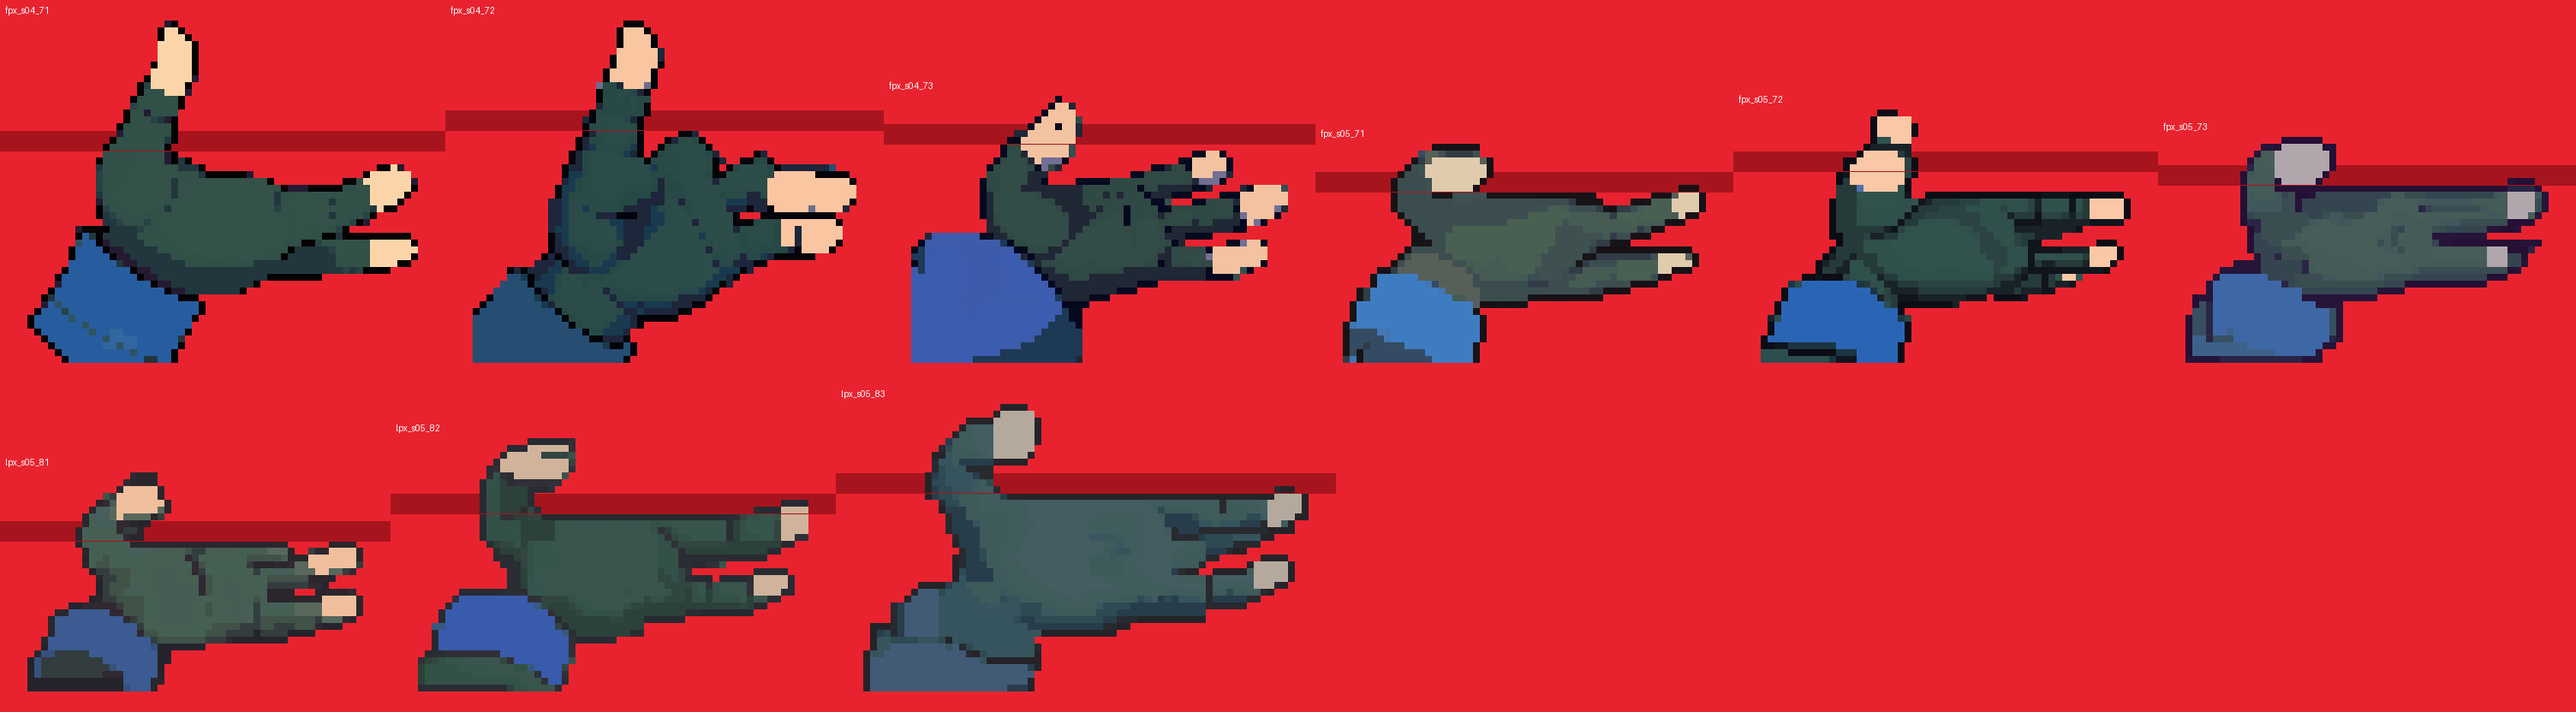
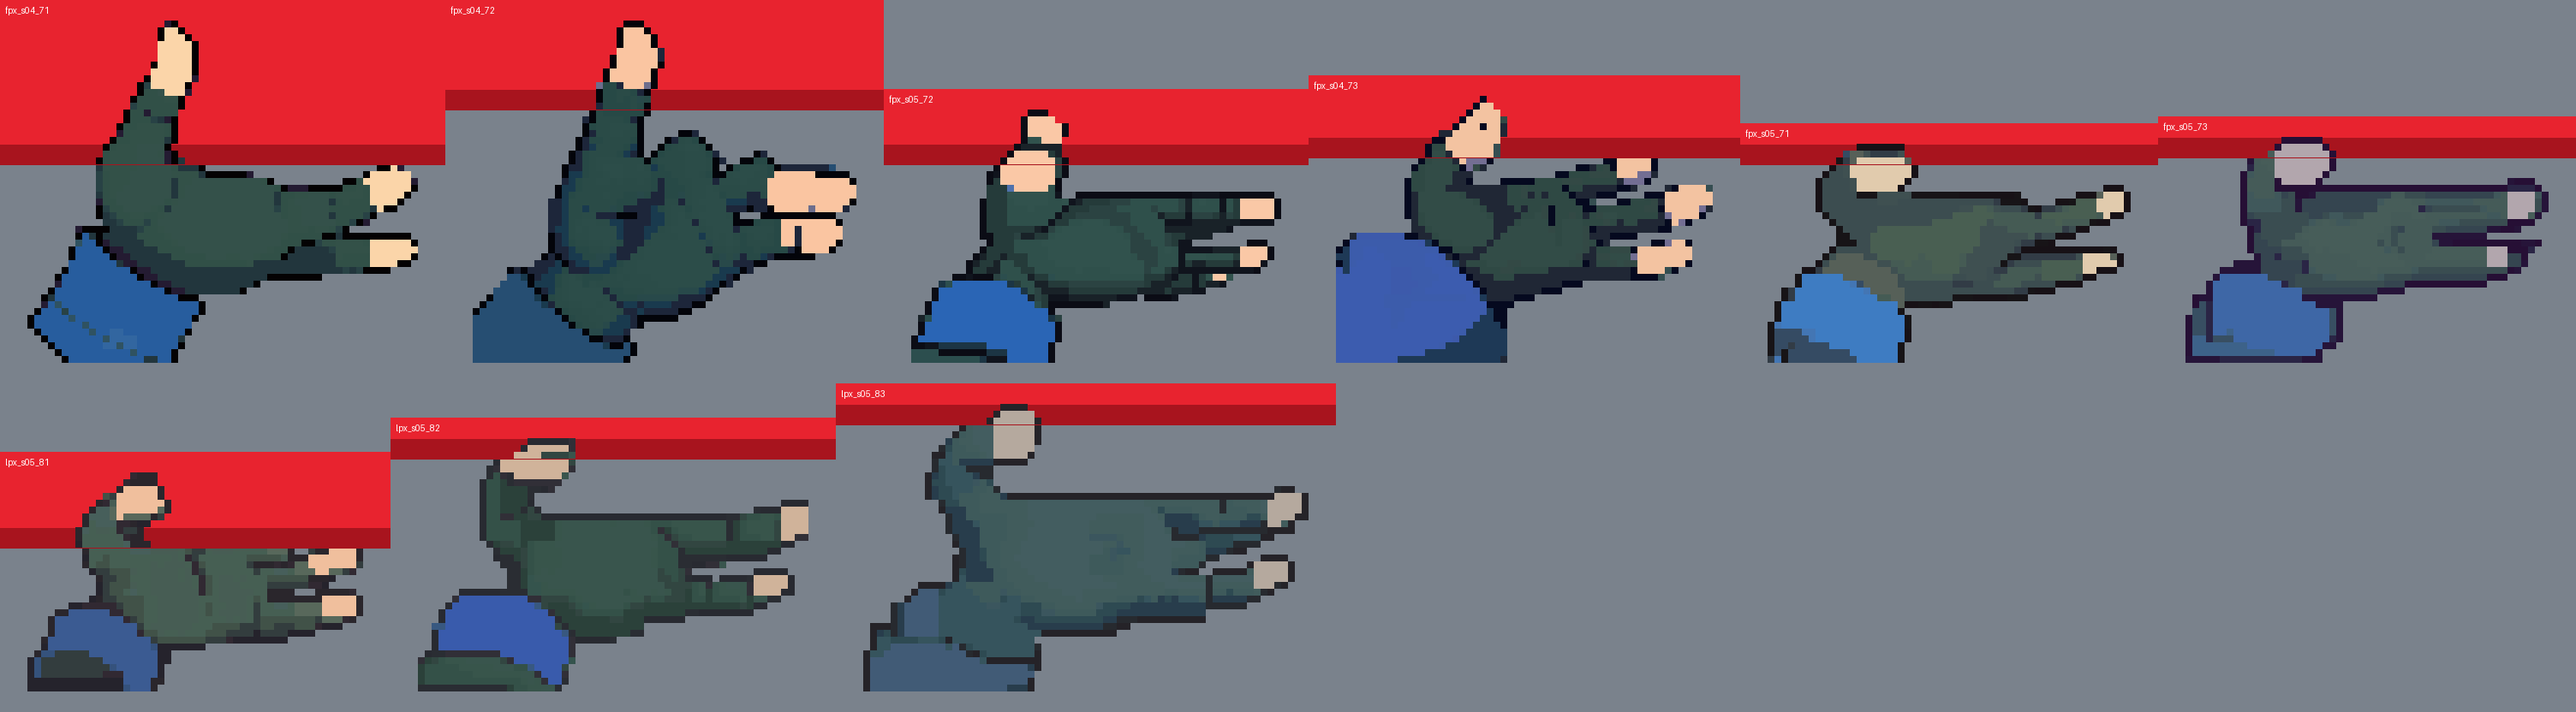
Pixel hand: dex edge rests on the knuckles, only the thumb in front (p2-dex)
The hand looked as if it clipped through the dex: the edge row was cut
across the palm, so knuckles were drawn in front of the device, and
the sheet's backdrop was the same red as the dex. split.py now puts
the edge on top of the knuckles and traces the thumb alone into the
front layer; contact sheets show the dex above its edge on grey.

diff --git a/assets-src/dex/pixel-hand/tools/split.py b/assets-src/dex/pixel-hand/tools/split.py
@@ -1,0 +1,76 @@
+"""Split a hand sprite into front (thumb only) and back layers at the device edge.
+
+usage: split.py cand_dir [cand_dir ...]   (reads sprite.png + meta.json, writes front/back.png)
+
+The device's bottom edge (meta["edge_row"], rewritten here) sits on top of the knuckles, so the
+hand supports it from below (set "edge_row_manual" in meta.json where the trace misses). The device covers everything above that row except the thumb, which rests on its face.
+The thumb is traced down from its tip: on each row, take the opaque run that overlaps the
+previous row's span. Once the run widens past the thumb (it has met a knuckle), clamp it to
+the previous span. Everything else above the edge goes in the back layer, hidden behind the
+device, so no knuckle is drawn in front of it.
+"""
+import json
+import sys
+from pathlib import Path
+
+import numpy as np
+from PIL import Image
+
+
+def runs(row):
+    out, x, w = [], 0, len(row)
+    while x < w:
+        if row[x]:
+            s = x
+            while x < w and row[x]:
+                x += 1
+            out.append((s, x))
+        x += 1
+    return out
+
+
+def thumb_mask(alpha, edge):
+    mask = np.zeros_like(alpha)
+    top = int(np.argmax(alpha.any(axis=1)))
+    span = max(runs(alpha[top]), key=lambda r: r[1] - r[0])
+    for y in range(top, edge):
+        cand = [r for r in runs(alpha[y]) if r[0] < span[1] and r[1] > span[0]]
+        if not cand:
+            break
+        r = max(cand, key=lambda r: min(r[1], span[1]) - max(r[0], span[0]))
+        if (r[1] - r[0]) > (span[1] - span[0]) + 2:  # grew into a knuckle: keep the thumb's width
+            r = (max(r[0], span[0] - 1), min(r[1], span[1] + 1))
+        mask[y, r[0]: r[1]] = True
+        span = r
+    return mask
+
+
+def find_edge(alpha):
+    """The device's bottom edge rests on the hand: the first row (below the thumb tip) where any
+    pixel lies outside the traced thumb, i.e. the top of the knuckles, plus one row of overlap."""
+    full = thumb_mask(alpha, alpha.shape[0])
+    top = int(np.argmax(alpha.any(axis=1)))
+    for y in range(top + 2, alpha.shape[0]):
+        if (alpha[y] & ~full[y]).any():
+            return y + 1
+    return alpha.shape[0] // 3
+
+
+def split(d):
+    d = Path(d)
+    meta = json.loads((d / "meta.json").read_text())
+    rgba = np.asarray(Image.open(d / "sprite.png").convert("RGBA")).copy()
+    alpha = rgba[..., 3] > 0
+    meta["edge_row"] = meta.get("edge_row_manual") or find_edge(alpha)
+    (d / "meta.json").write_text(json.dumps(meta, indent=1))
+    thumb = thumb_mask(alpha, meta["edge_row"])
+    front, back = rgba.copy(), rgba.copy()
+    front[~thumb, 3] = 0
+    back[thumb, 3] = 0
+    Image.fromarray(front).save(d / "front.png")
+    Image.fromarray(back).save(d / "back.png")
+
+
+if __name__ == "__main__":
+    for d in sys.argv[1:]:
+        split(d)

diff --git a/assets-src/dex/pixel-hand/tools/contact.py b/assets-src/dex/pixel-hand/tools/contact.py
@@ -1,25 +1,23 @@
-"""contact.py out.png cand/a cand/b ... : sprites x8 on dex red, with the device edge band."""
+"""contact.py out.png cand/a cand/b ... : sprites x8 under the dex (red, above its edge band) on a grey backdrop."""
 import json
 import sys
 from pathlib import Path
 
 from PIL import Image, ImageDraw
 
-RED, BAND, S = (0xE8, 0x23, 0x2F), (0xA8, 0x14, 0x1E), 8
+RED, BAND, BACKDROP, S = (0xE8, 0x23, 0x2F), (0xA8, 0x14, 0x1E), (0x7A, 0x82, 0x8C), 8
 dirs = [Path(d) for d in sys.argv[2:]]
 tiles = []
 for d in dirs:
     meta = json.loads((d / "meta.json").read_text())
-    if (d / "back.png").exists():
-        back, front = Image.open(d / "back.png"), Image.open(d / "front.png")
-    else:  # unsplit candidate: same edge row, split on the fly
-        spr = Image.open(d / "sprite.png")
-        back, front = spr.copy(), spr.copy()
-        e0 = meta["edge_row"]
-        back.paste((0, 0, 0, 0), (0, 0, spr.width, e0))
-        front.paste((0, 0, 0, 0), (0, e0, spr.width, spr.height))
+    if not (d / "back.png").exists():
+        sys.path.insert(0, str(Path(__file__).parent))
+        from split import split
+
+        split(d)
+    back, front = Image.open(d / "back.png"), Image.open(d / "front.png")
     w, h = back.size
-    t = Image.new("RGB", ((w + 8) * S, (h + 6) * S), RED)
+    t = Image.new("RGB", ((w + 8) * S, (h + 6) * S), BACKDROP)
     ox, oy = 4 * S, 3 * S
     t.paste(back.resize((w * S, h * S), Image.NEAREST), (ox, oy), back.resize((w * S, h * S), Image.NEAREST))
     e = oy + meta["edge_row"] * S
@@ -32,7 +30,7 @@ PER_ROW = 6
 rows = [tiles[i: i + PER_ROW] for i in range(0, len(tiles), PER_ROW)]
 W = max(sum(t.width for t in r) for r in rows)
 hs = [max(t.height for t in r) for r in rows]
-sheet = Image.new("RGB", (W, sum(hs)), RED)
+sheet = Image.new("RGB", (W, sum(hs)), BACKDROP)
 y = 0
 for r, h in zip(rows, hs):
     x = 0

diff --git a/assets-src/dex/pixel-hand/tools/pixelize.py b/assets-src/dex/pixel-hand/tools/pixelize.py
@@ -2,7 +2,7 @@
 
 usage: pixelize.py raw.png outdir [--colors N] [--pixel P]
 Writes outdir/sprite.png (true pixel grid, small palette, transparent bg),
-outdir/front.png + back.png (thumb in front of the device edge / the rest)
+outdir/front.png + back.png (the thumb, drawn in front of the device / the rest, via split.py)
 and outdir/meta.json (pixel size, grid, edge row).
 """
 import json
@@ -111,13 +111,11 @@ def main():
     top = int(np.argmax(widths > 0))
     thumb_w = np.median(widths[top: top + max(3, len(widths) // 6)])
     edge = top + int(np.argmax(widths[top:] > thumb_w * 1.8))
-    front, back = rgba.copy(), rgba.copy()
-    front[edge:, :, 3] = 0
-    back[:edge, :, 3] = 0
-    Image.fromarray(front).save(outdir / "front.png")
-    Image.fromarray(back).save(outdir / "back.png")
     meta = dict(source=src.name, model_pixel=round(p, 2), grid=[int(cells.shape[1]), int(cells.shape[0])], edge_row=edge, colors=colors)
     (outdir / "meta.json").write_text(json.dumps(meta, indent=1))
+    from split import split  # front = the thumb only, so no knuckle sits in front of the dex
+
+    split(outdir)
     print(json.dumps(meta))
 
 

diff --git a/assets-src/dex/pixel-hand/round2/README.md b/assets-src/dex/pixel-hand/round2/README.md
@@ -18,3 +18,15 @@ Picks, with `front.png` (thumb) and `back.png` layers:
 1. fpx_s04_71
 2. fpx_s04_72
 3. fpx_s05_72
+
+## Layer split (fix for "the hand clips through the dex edge")
+
+The first split cut at the row where the hand widened, which put the device edge across the
+palm and drew knuckles in front of the dex. `tools/split.py` now:
+- puts the device's bottom edge on top of the knuckles, so the dex rests on the curled
+  fingers;
+- makes the front layer the thumb alone, traced down from its tip.
+
+The contact sheets now show the dex in red above its edge band, on a grey backdrop, so the
+hand no longer looks as if it's drawn on the device. `contact_picks.png` shows the three picks.
+`edge_row_manual` in a `meta.json` overrides the trace (set for fpx_s04_72).
